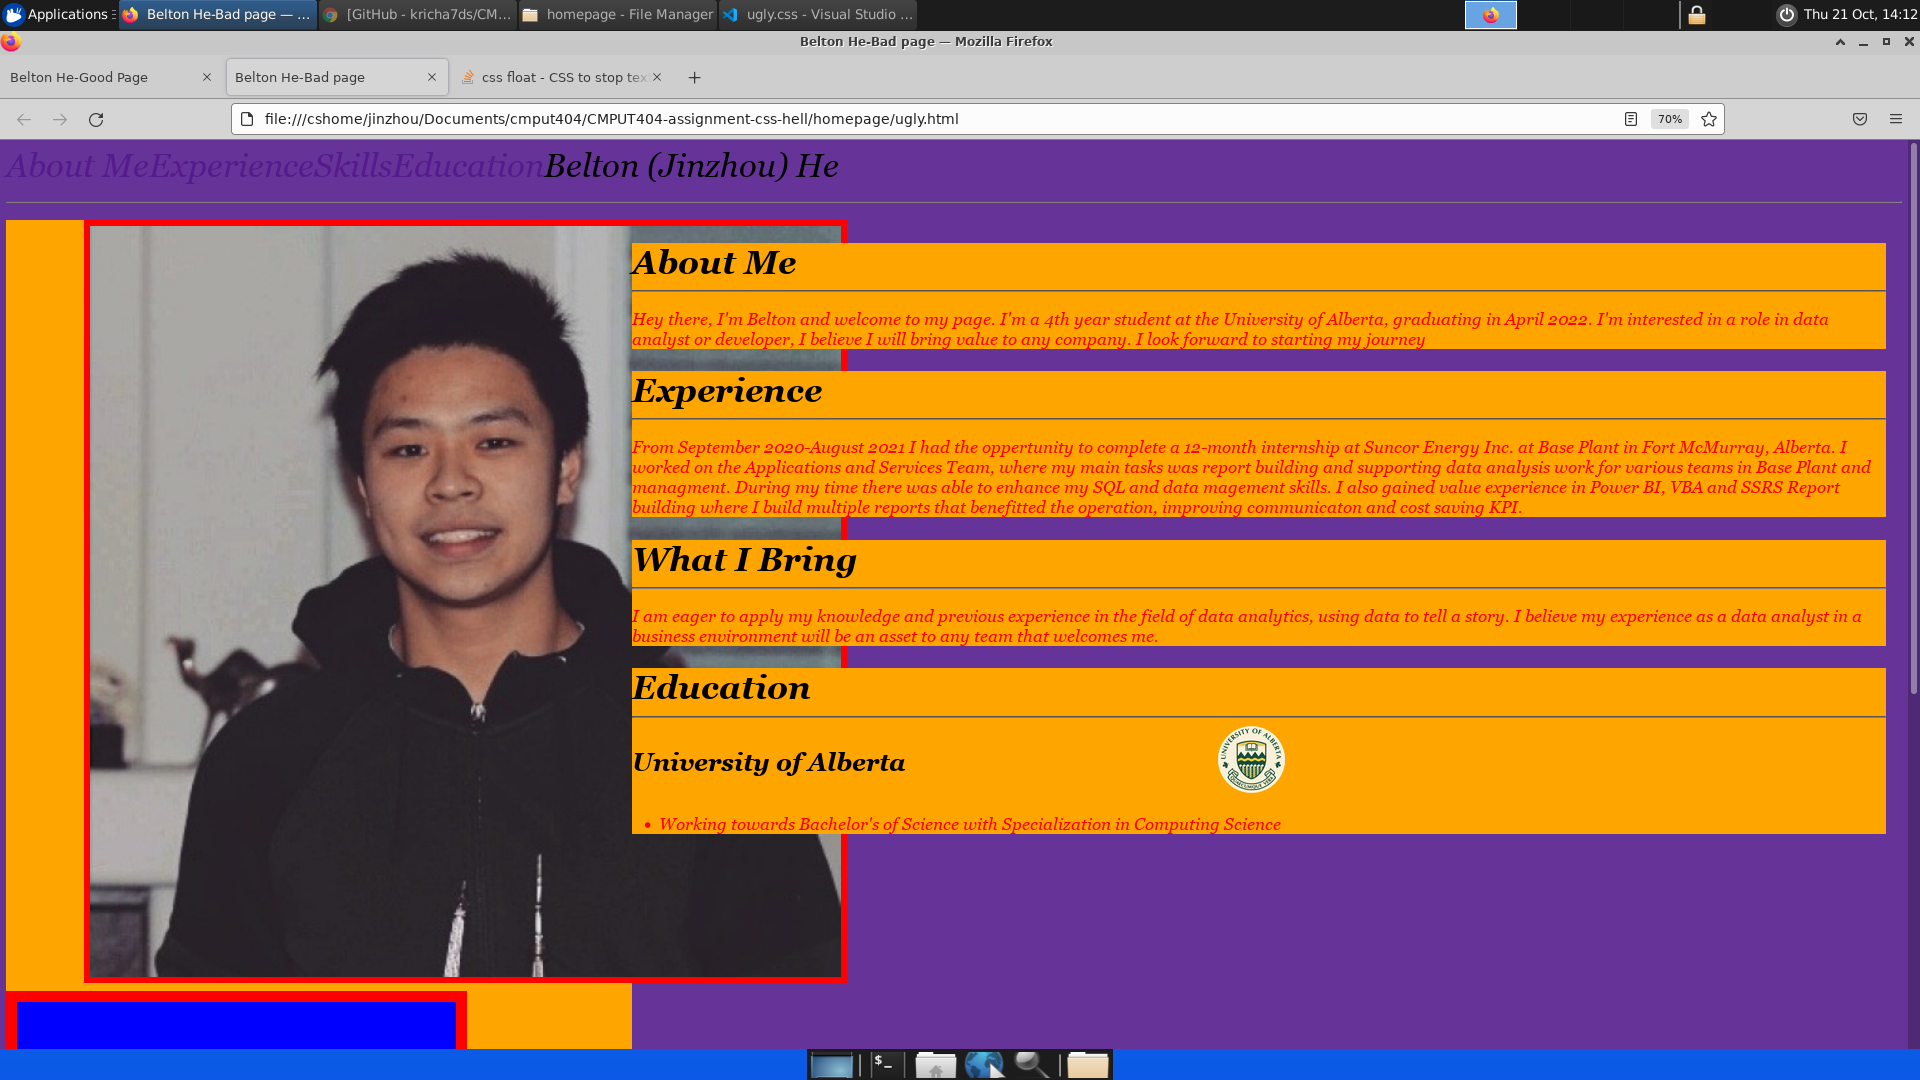
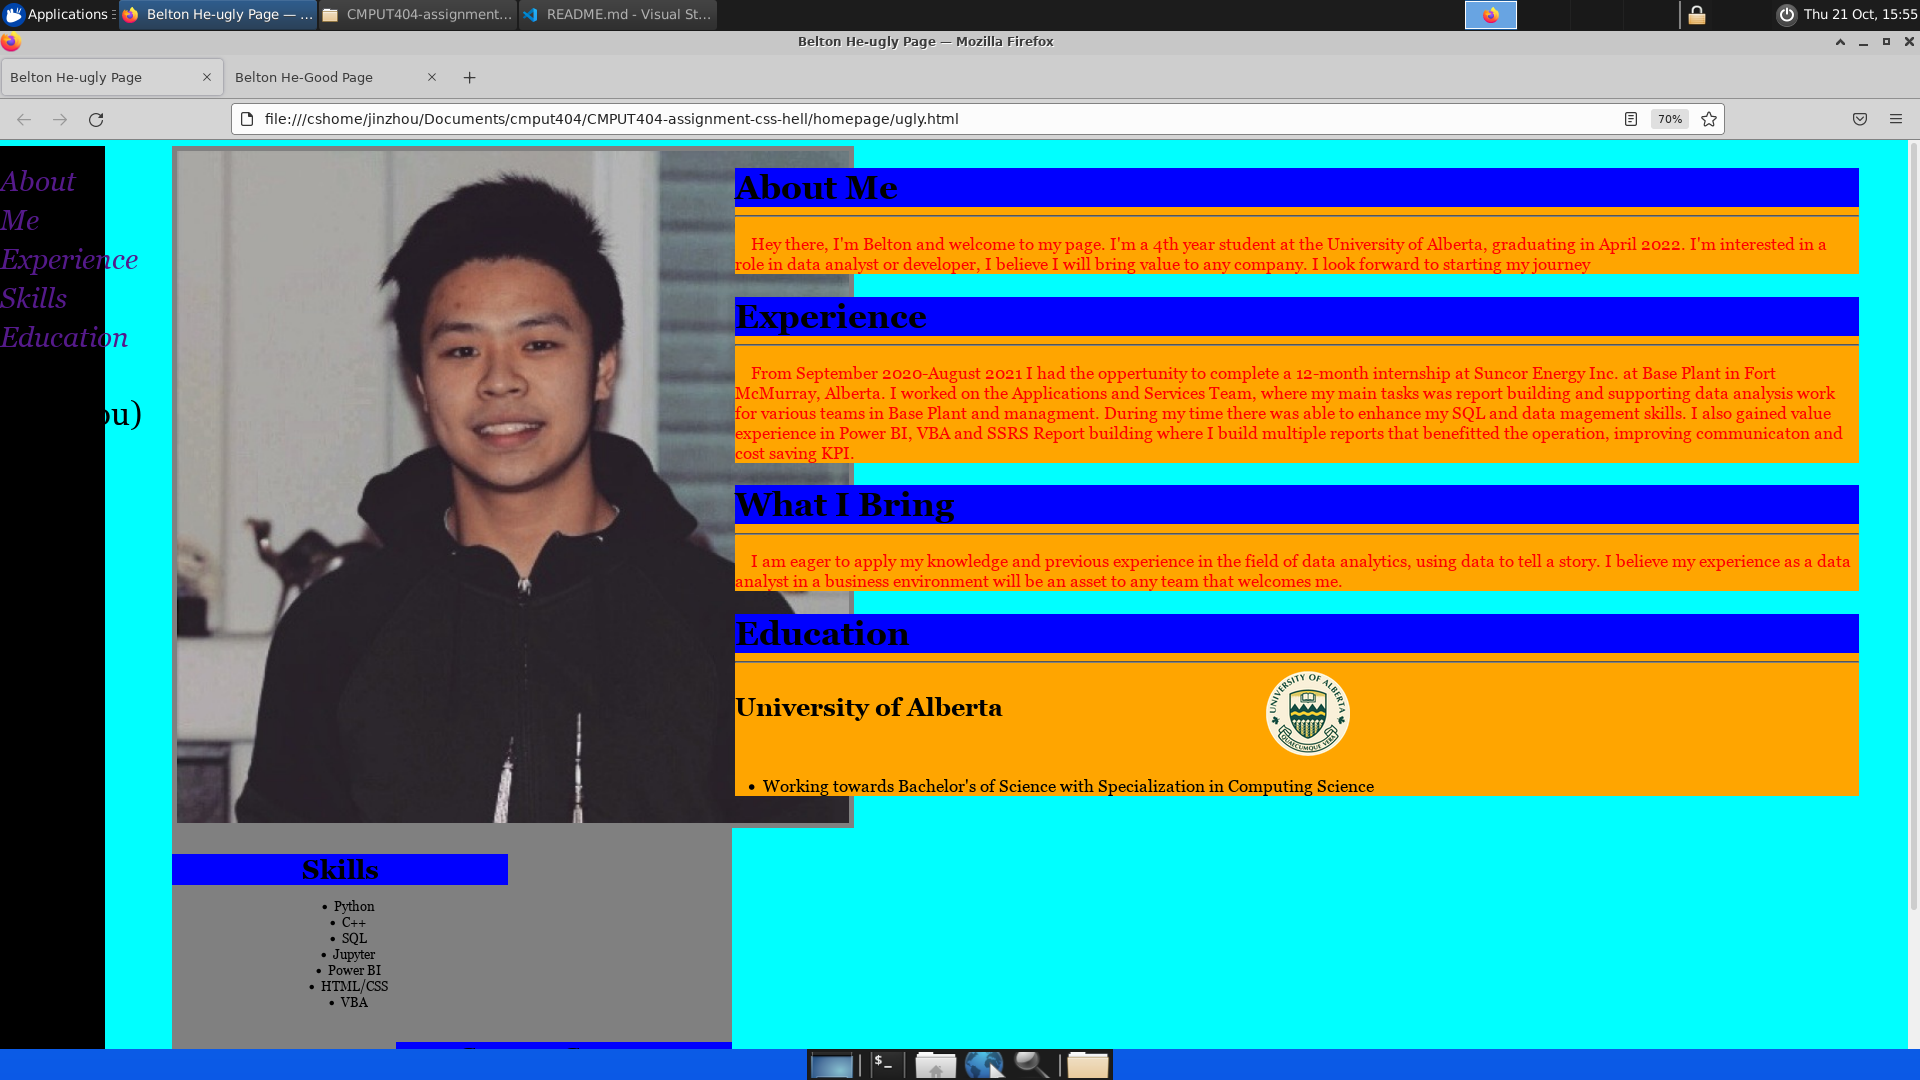
complete

diff --git a/homepage/ugly.html b/homepage/ugly.html
@@ -2,9 +2,9 @@
 <html lang="en-CA">
     <head>
         <meta charset="UTF-8">
-        <meta name="Description" content="Bad Page">
+        <meta name="Description" content="Ugly Page">
         <link rel="stylesheet" href="ugly.css">
-        <title>Belton He-Bad page</title>
+        <title>Belton He-ugly Page</title>
     </head>
     <body>
         <div class="nav">
@@ -14,7 +14,6 @@
             <a href="#edu">Education</a>
             <div class="name">Belton (Jinzhou) He</div>
         </div>
-        <hr>
         <div class="row">
             <div class="column1">
                 <div class="nameDisp">
@@ -42,6 +41,7 @@
                                 <li>Database Management</li>
                                 <li>Machine Learning</li>
                                 <li>Algorithm</li>
+                                <li>Web Development</li>
                             </ul>
                         </div>
                     </div>
@@ -50,14 +50,14 @@
             <div class="column2">
                 <div class="about" id="about">
                     <h1>About Me</h1><hr>
-                    <p>Hey there, I'm Belton and welcome to my page. I'm a 4th year student at the University of Alberta, graduating in April 2022.
+                    <p>Hey there, I'm Belton and welcome to my page. I'm a 4th year student at the University of Alberta, graduating in April 2022. 
                         I'm interested in a role in data analyst or developer, I believe I will bring value to any company. I look forward to starting my journey</p>
                 </div>
                 <div class="exp" id="exp">
                     <h1>Experience</h1><hr>
                     <p>From September 2020-August 2021 I had the oppertunity to complete a 12-month internship at Suncor Energy Inc. at Base Plant in Fort McMurray, Alberta.
                         I worked on the Applications and Services Team, where my main tasks was report building and supporting data analysis work for various teams in Base Plant and managment.
-                        During my time there was able to enhance my SQL and data magement skills. I also gained value experience in Power BI, VBA and SSRS Report building where I build multiple reports that 
+                        During my time there was able to enhance my SQL and data magement skills. I also gained value experience in Power BI, VBA and SSRS Report building where I build multiple reports that
                         benefitted the operation, improving communicaton and cost saving KPI.</p>
                 </div>
                 <div class="wib" id="exp">
@@ -83,6 +83,6 @@
     </body>
     <footer>
         <a rel="license" href="http://creativecommons.org/licenses/by/3.0/"><img alt="Creative Commons License" style="border-width:0" src="https://i.creativecommons.org/l/by/3.0/88x31.png" /></a><br />
-        by Belton He, is licensed under a <a rel="license" href="http://creativecommons.org/licenses/by/3.0/">Creative Commons Attribution 3.0 Unported License</a>.
+        by Belton He, is licensed under a <a class="footer" rel="license" href="http://creativecommons.org/licenses/by/3.0/">Creative Commons Attribution 3.0 Unported License</a>.
     </footer>
 </html>

diff --git a/homepage/ugly.css b/homepage/ugly.css
@@ -1,12 +1,14 @@
 html{
     scroll-behavior: smooth;
     scroll-snap-align: center;
-    background-color: rebeccapurple;
+    background-color: cyan;
 }
 a:link {
-    color:blue;
+    color:gray;
     text-decoration: none;
+    font-style: italic;
     text-align: center;
+    font-size: smaller;
     }
 a:hover {
     color: red
@@ -16,34 +18,44 @@ a:visited {
     }
 img.image{
     width: 120%;
-    border: 10px solid red;
-    margin-left: 7rem;
+    border: solid .5rem gray;
+    margin-right: 3rem;
 }
 img.uofa{
-    width: 8%;
+    width: 10%;
 }
 h1{
     margin-bottom: .5rem;
+    background-color: blue;
 }
 body{
+    margin-right: 2%;
+    margin-left: 2%;
     font-family: Georgia, 'Times New Roman', Times, serif;
     font-size: 3em;
-    font-style: italic;
+}
+p {
+    text-indent: 1em;
+    color: red;
 }
 div.nav{
-    display: flex;
-    flex-direction: row;
-    text-align: center;
+    height: 100%;
+    width: 150px; 
+    position: fixed; 
+    z-index: 1; 
+    left: 0;
+    background-color: black;
+    padding-top: 20px;
 }
 div.row{
     display: table;
     clear: both;
+    margin-left: 12rem;
 }
 div.row1{
     display: table;
     clear: both;
-    background-color: blue;
-    border: solid red 1rem;
+    width: 100%;
 }
 div.rowEd{
     display: table;
@@ -53,48 +65,40 @@ div.rowEd{
 div.column1{
     float: left;
     width: 33%;
-    background-color: orange;
-
+    background-color: grey;
 }
 div.columnEd1{
     float: left;
-    width: 70%;
+    width: 37%;
 }
 div.column2{
     float: right;
     width: 67%;
-
+    text-align: center;
 }
 div.column3{
     float: left;
-    width: 50%;
+    width: 60%;
 
 }
 div.column4{
     float: right;
-    width: 70%;
+    width: 60%;
 
 }
 div.columnEd2{
-    text-align: left;
-}
-div.skills{
     text-align: center;
-    font-style: italic;
-    font-size: 2.5rem;
+}
+div.skills, div.course{
+    text-align: center;
+    font-size: 1.2rem;
 }
 div.about, div.exp, span.name, div.edu, div.wib{
     text-align: left;
-    margin-right: 1.5rem;
+    margin-left: .2rem;
+    margin-right: 1rem;
     font-size: 1.5rem;
     background-color: orange;
-}
-div.course{
-    text-align: right;
-    font-size: 1.5rem;
-}
-p, ul{
-    color: red;
 }
 footer{
     font-size: 10px;

diff --git a/homepage/good.css b/homepage/good.css
@@ -8,6 +8,7 @@ a:link {
     text-decoration: none;
     font-style: italic;
     text-align: center;
+    font-size: smaller;
     }
 a:hover {
     color: red
@@ -16,8 +17,9 @@ a:visited {
     text-decoration: none
     }
 img.image{
-    width: 100%;
+    width: 98%;
     border: solid .5rem gray;
+    margin-right: 3rem;
 }
 img.uofa{
     width: 8%;
@@ -25,7 +27,6 @@ img.uofa{
 h1{
     margin-bottom: .5rem;
     background-color: beige;
-
 }
 body{
     margin-right: 2%;
@@ -37,21 +38,24 @@ p {
     text-indent: 1em;
 }
 div.nav{
-    display: flex;
-    flex-direction: row;
-    justify-content: space-between;
-    text-align: center;
+    height: 100%;
+    width: 220px; 
+    position: fixed; 
+    z-index: 1; 
+    left: 0;
+    background-color: lightgrey;
+    overflow-x: hidden;
+    padding-top: 20px;
 }
 div.row{
     display: table;
     clear: both;
+    margin-left: 12rem;
 }
 div.row1{
     display: table;
     clear: both;
     width: 100%;
-
-
 }
 div.rowEd{
     display: table;
@@ -61,7 +65,7 @@ div.rowEd{
 div.column1{
     float: left;
     width: 33%;
-
+    background-color: grey;
 }
 div.columnEd1{
     float: left;

diff --git a/homepage/good.html b/homepage/good.html
@@ -14,7 +14,6 @@
             <a href="#edu">Education</a>
             <div class="name">Belton (Jinzhou) He</div>
         </div>
-        <hr>
         <div class="row">
             <div class="column1">
                 <div class="nameDisp">
@@ -84,6 +83,6 @@
     </body>
     <footer>
         <a rel="license" href="http://creativecommons.org/licenses/by/3.0/"><img alt="Creative Commons License" style="border-width:0" src="https://i.creativecommons.org/l/by/3.0/88x31.png" /></a><br />
-        by Belton He, is licensed under a <a rel="license" href="http://creativecommons.org/licenses/by/3.0/">Creative Commons Attribution 3.0 Unported License</a>.
+        by Belton He, is licensed under a <a class="footer" rel="license" href="http://creativecommons.org/licenses/by/3.0/">Creative Commons Attribution 3.0 Unported License</a>.
     </footer>
 </html>

diff --git a/README.md b/README.md
@@ -37,3 +37,4 @@ Reference
 ===================
 * https://www.w3schools.com/howto/howto_css_two_columns.asp
 * used html from https://creativecommons.org/choose/results-one?license_code=by&amp;jurisdiction=&amp;version=3.0&amp;lang=en to achieve license for footer
+* https://www.w3schools.com/howto/howto_css_fixed_sidebar.asp
